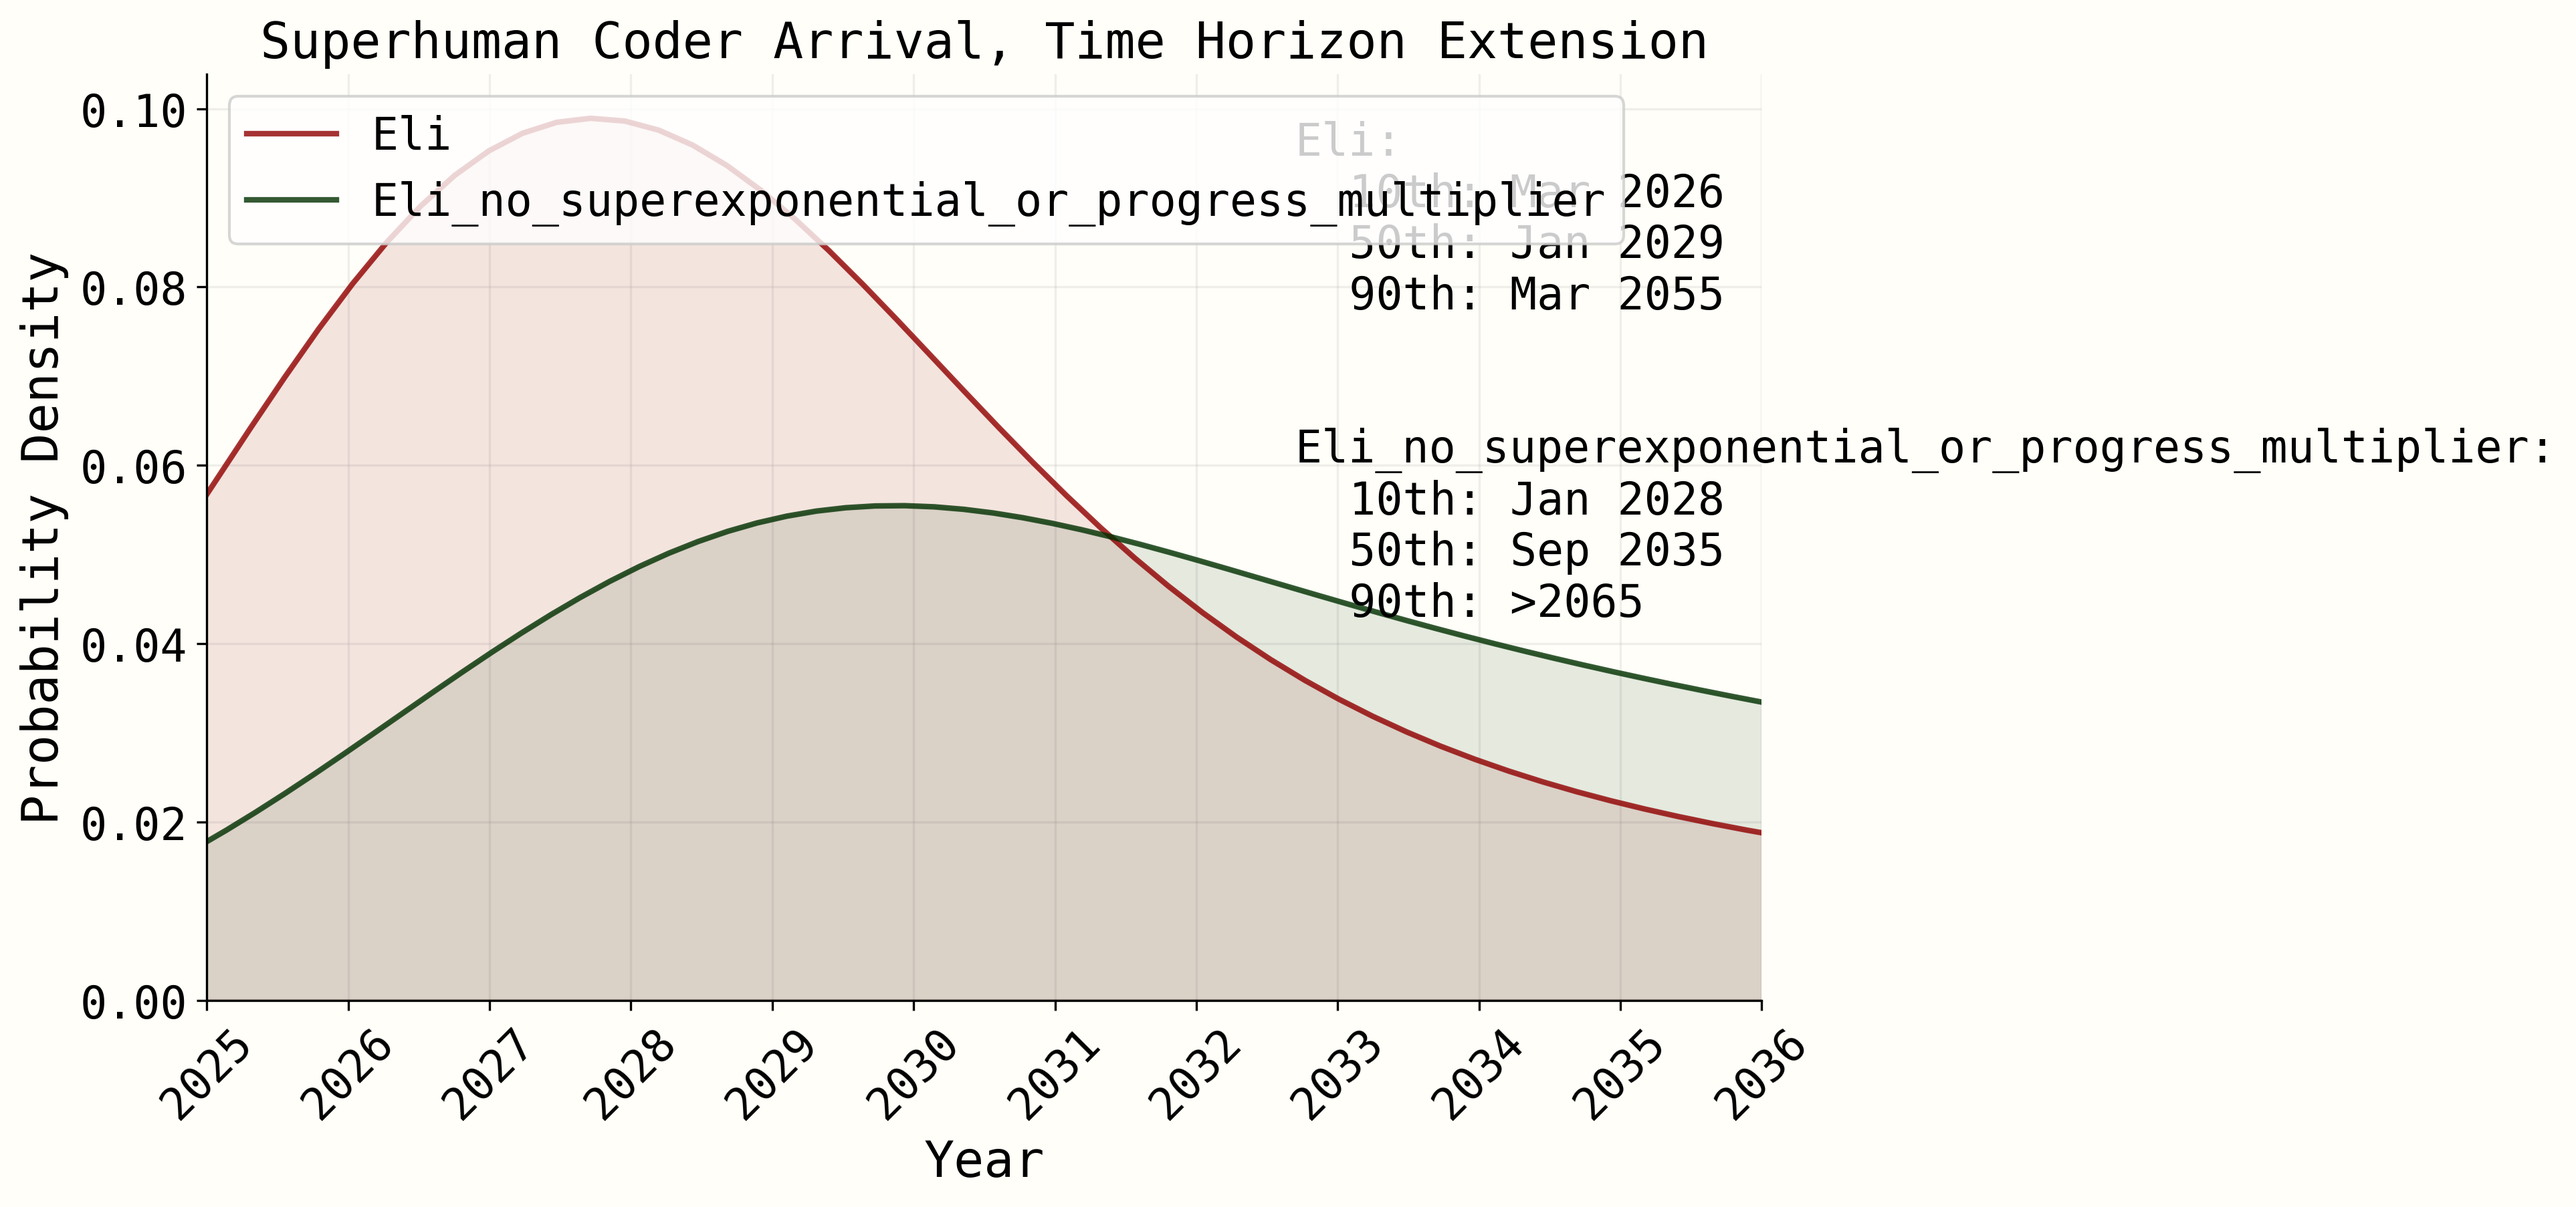
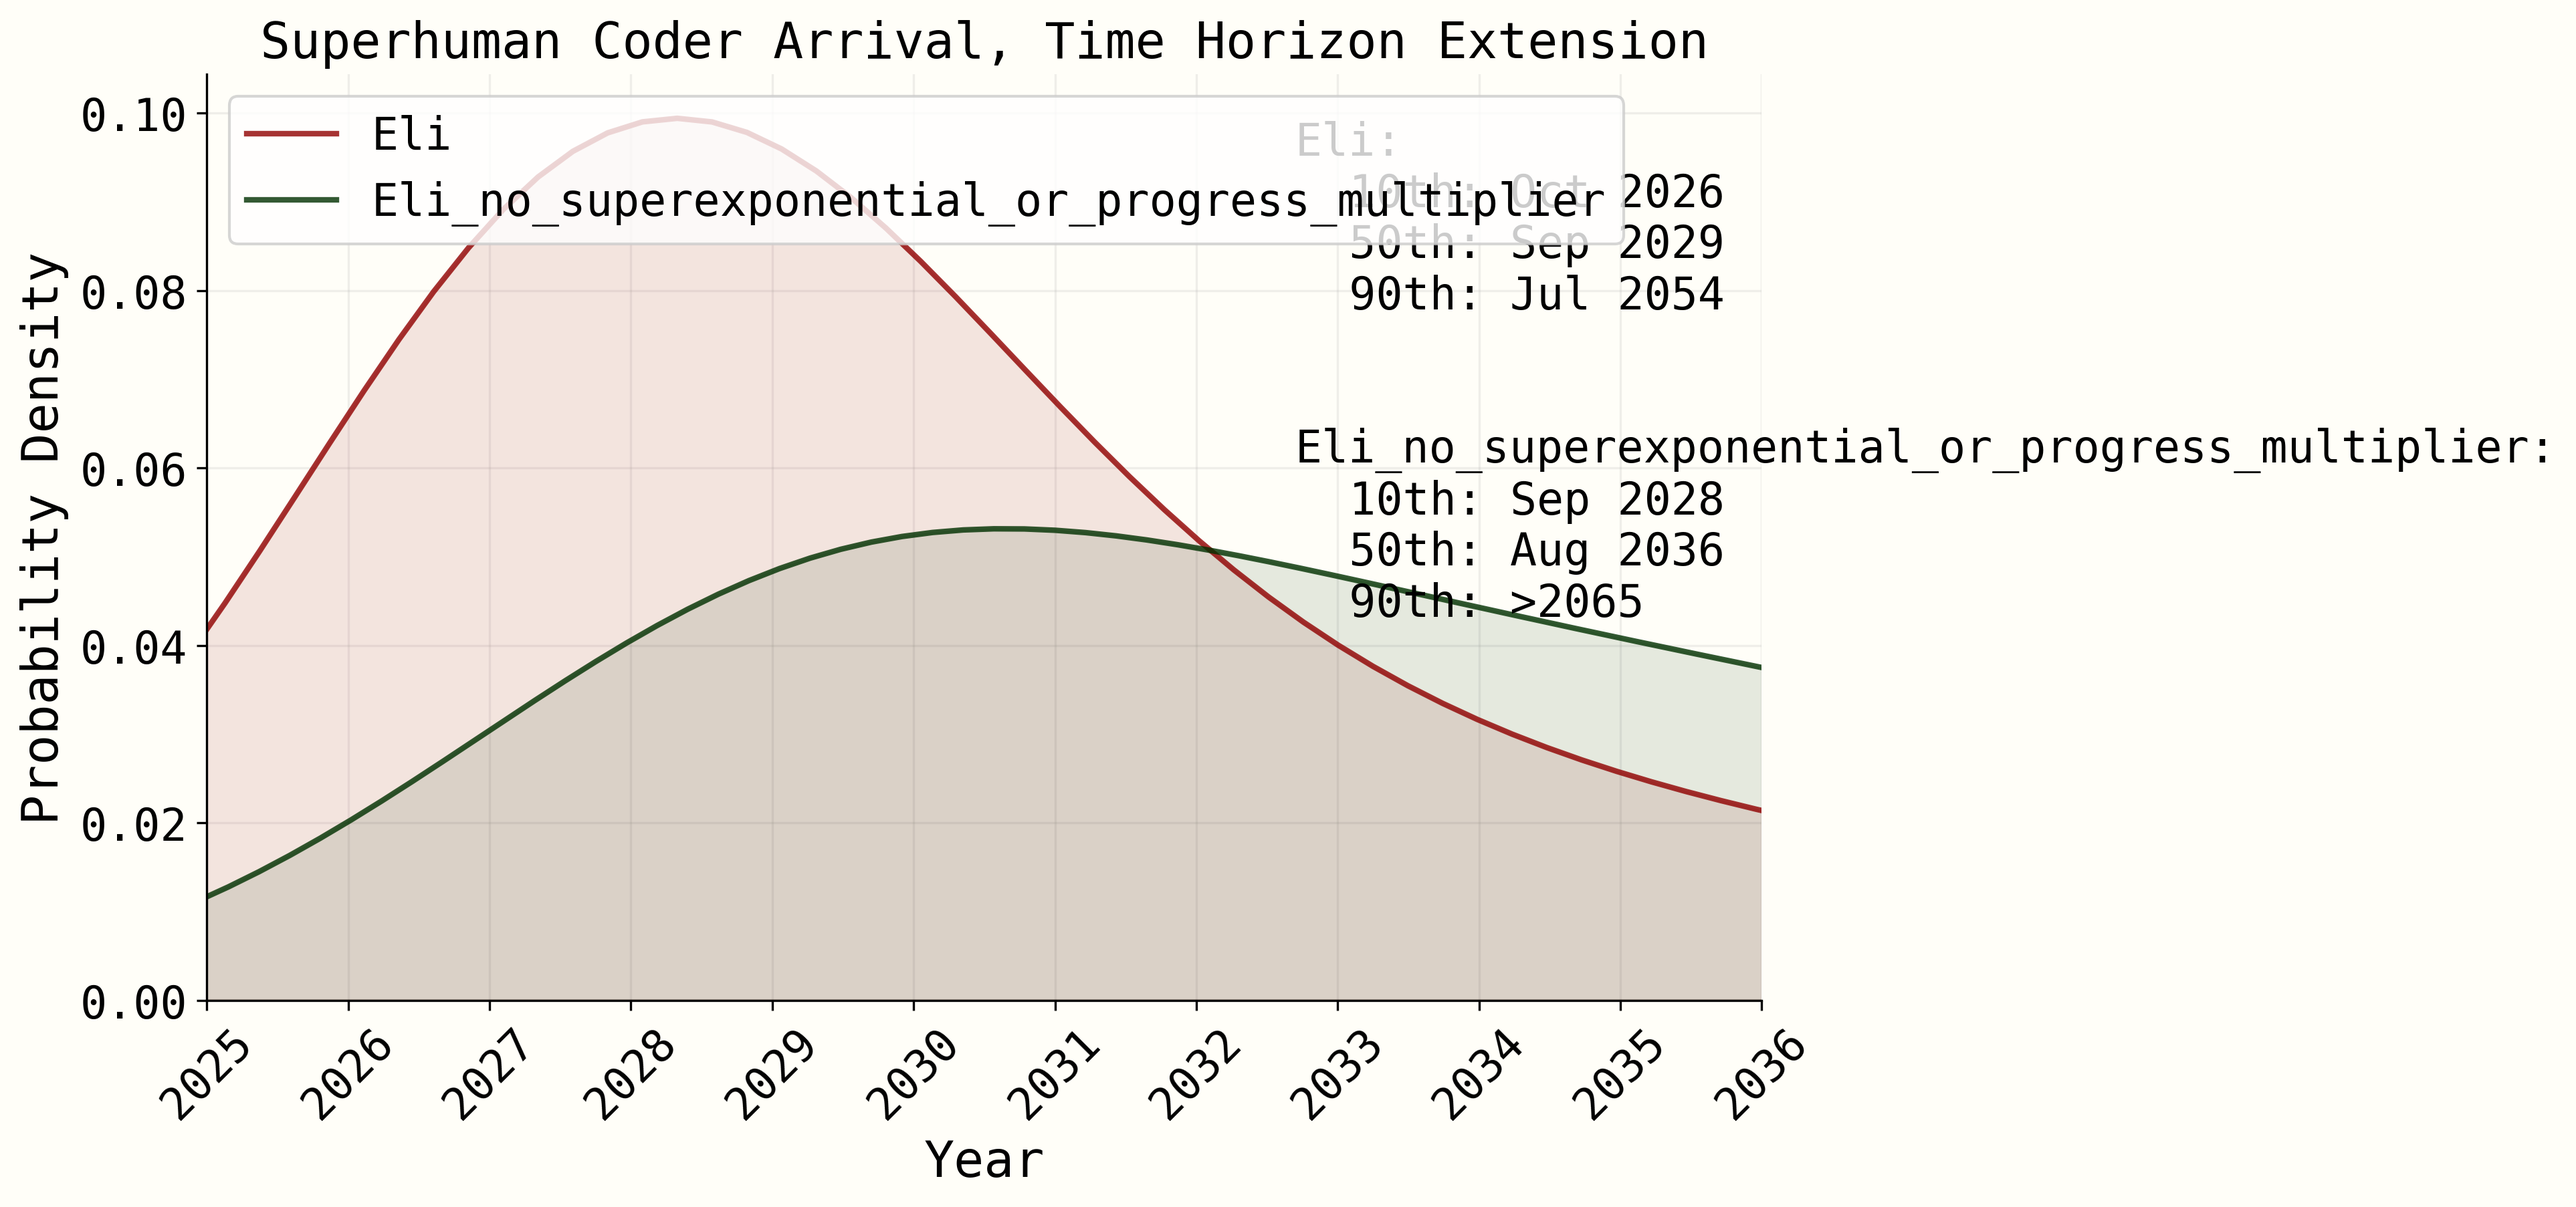
fix date fteching

diff --git a/timelines_may_2025_update/forecasting_timelines.py b/timelines_may_2025_update/forecasting_timelines.py
@@ -135,7 +135,8 @@ def get_distribution_samples(config: dict, n_sims: int, correlation: float = 0.7
         start_month = int((t_start % 1) * 12) + 1
         reference_date = datetime(start_year, start_month, 1)
     else:
-        reference_date = datetime.now()
+        # reference_date = datetime.now()
+        reference_date = datetime(2025, 3, 1)
     
     date1 = datetime.strptime(config["distributions"]["t_sat_ci"][0], "%Y-%m-%d")
     date2 = datetime.strptime(config["distributions"]["t_sat_ci"][1], "%Y-%m-%d")
@@ -430,10 +431,11 @@ def create_headline_plot(all_forecaster_results: dict[str, list[float]], bins: n
     ax.set_facecolor(bg_rgb)
     
     # Get current year for x-axis range
-    current_year = datetime.now().year
+    # current_year = datetime.now().year
+    current_year = 2025
     x_min = current_year
     x_max = current_year + 11  # Show 11 years into the future
-    
+
     for name, results in all_forecaster_results.items():
         # Get the base name without any parenthetical text for config lookup
         base_name = name.split(" (")[0].lower()
@@ -531,10 +533,11 @@ def create_scenario_plots(all_forecaster_scenarios: dict[str, list[list[float]]]
     axes = gs.subplots()
 
     # Get current year for x-axis range
-    current_year = datetime.now().year
+    # current_year = datetime.now().year
+    current_year = 2025
     x_min = current_year
     x_max = current_year + 11  # Show 11 years into the future
-    
+
     # Update suptitle with direct fontsize and font
     title = plt.suptitle("Date when SC milestone is reached internally",
                  fontsize=plotting_style["font"]["sizes"]["main_title"],
@@ -810,8 +813,9 @@ def plot_multi_distribution(ax: plt.Axes, name: str, info: dict,
         ax.xaxis.set_minor_formatter(plt.NullFormatter())
     
     # Get current year for x-axis range if needed
-    current_year = datetime.now().year
-    
+    # current_year = datetime.now().year
+    current_year = 2025
+
     # Plot distribution for each forecaster
     for forecaster_name, samples in all_forecaster_samples.items():
         # Get the base name without any parenthetical text for config lookup
@@ -832,9 +836,10 @@ def plot_multi_distribution(ax: plt.Axes, name: str, info: dict,
         # For t_sat, convert to actual dates
         if is_t_sat:
             data = data / 12
-            current_date = datetime.now()
-            current_year = current_date.year
-            current_month = current_date.month
+            # current_date = datetime.now()
+            # current_year = current_date.year
+            # current_month = current_date.month
+            current_year = 2025
             data = current_year + data
         
         # Plot the distribution
@@ -1072,7 +1077,8 @@ def create_research_trajectory_plot(all_forecaster_trajectories: dict, config: d
     ax.ticklabel_format(style='scientific', axis='y', scilimits=(0,0))
     
     # Set x-axis to show years
-    current_year = datetime.now().year
+    # current_year = datetime.now().year
+    current_year = 2025
     x_min = current_year
     x_max = 2028.0  # End at the end of 2027 / beginning of 2028
     ax.set_xlim(x_min, x_max)

diff --git a/timelines_may_2025_update/simple_forecasting_timelines.py b/timelines_may_2025_update/simple_forecasting_timelines.py
@@ -283,8 +283,9 @@ def calculate_sc_arrival_year(samples: dict, current_horizon: float, dt: float, 
     ending_times = np.zeros(n_sims)
     
     # Get current date as decimal year
-    current_date = datetime.now()
-    current_year = current_date.year + (current_date.month - 1) / 12 + (current_date.day - 1) / 365.25
+    # current_date = datetime.now()
+    # current_year = current_date.year + (current_date.month - 1) / 12 + (current_date.day - 1) / 365.25
+    current_year = 2025.25
     
     # Convert dt from days to months
     dt_in_months = dt / 30.5
@@ -396,7 +397,8 @@ def plot_results(all_forecaster_results: dict, config: dict) -> plt.Figure:
     ax.set_facecolor(bg_rgb)
     
     # Get current year for x-axis range
-    current_year = datetime.now().year
+    # current_year = datetime.now().year
+    current_year = 2025.25
     x_min = current_year
     x_max = current_year + 11
     
@@ -477,8 +479,9 @@ def run_simple_sc_simulation(config_path: str = "simple_params.yaml") -> tuple[p
     config = load_config(config_path)
     
     # Get current date as decimal year
-    current_date = datetime.now()
-    current_year_decimal = current_date.year + (current_date.month - 1) / 12 + (current_date.day - 1) / 365.25
+    # current_date = datetime.now()
+    # current_year_decimal = current_date.year + (current_date.month - 1) / 12 + (current_date.day - 1) / 365.25
+    current_year_decimal = 2025.25
     
     # Store results for each forecaster
     all_forecaster_results = {}
